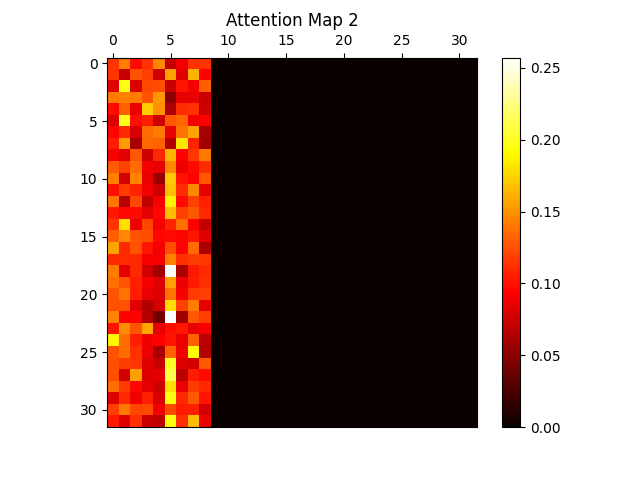
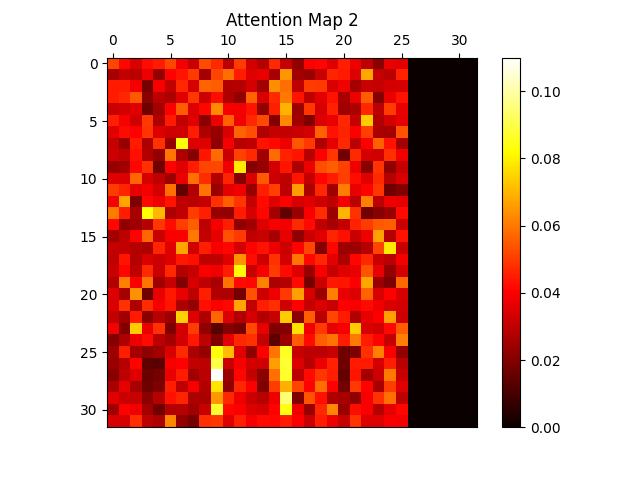
Add param logging

diff --git a/PA2/main.py b/PA2/main.py
@@ -127,7 +127,10 @@ def main():
     encoder.eval()
     utils = Utilities(tokenizer, encoder)
 
-    utils.sanity_check("This is a test sentence for sanity check.", block_size)
+    utils.sanity_check(
+        "This is a test sentence for sanity check, it has almost thirty words in it to fill the majority of the attention map graph.", 
+        block_size
+    )
 
     classifier = FeedForwardClassifier(
         encoder=encoder,
@@ -193,6 +196,8 @@ def main():
         "batch_size": batch_size,
         "learning_rate": learning_rate,
         "epochs_CLS": epochs_CLS,
+        "total_params": sum(p.numel() for p in classifier.parameters()),
+        "trainable_params": sum(p.numel() for p in classifier.parameters() if p.requires_grad)
     }
 
     for k, v in training_summary.items():
